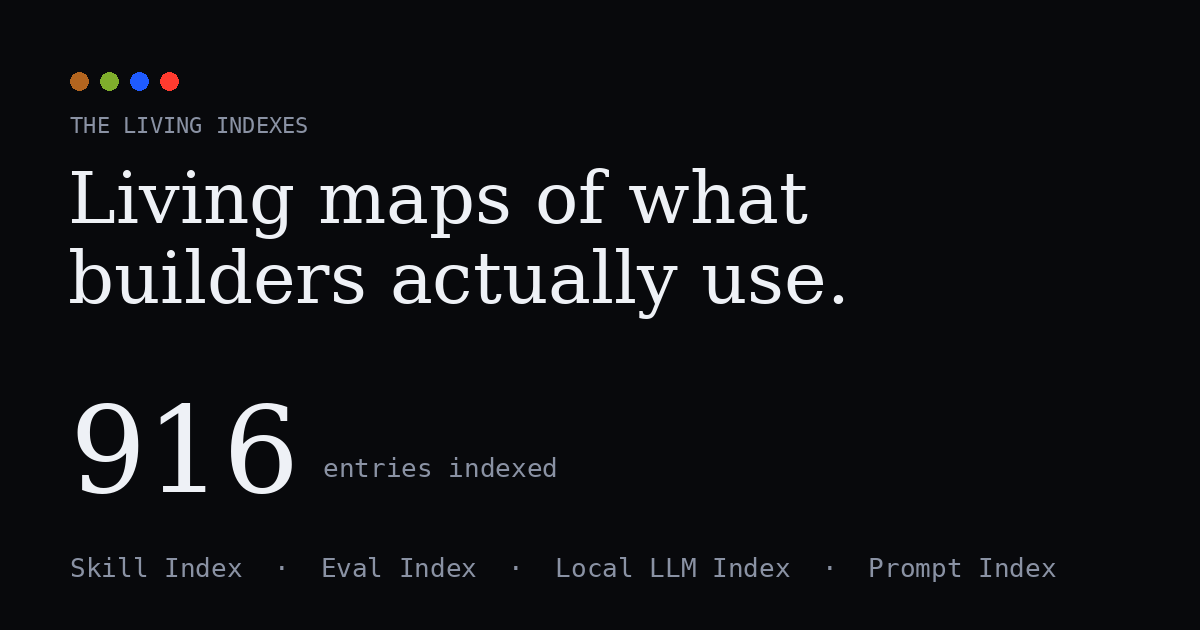
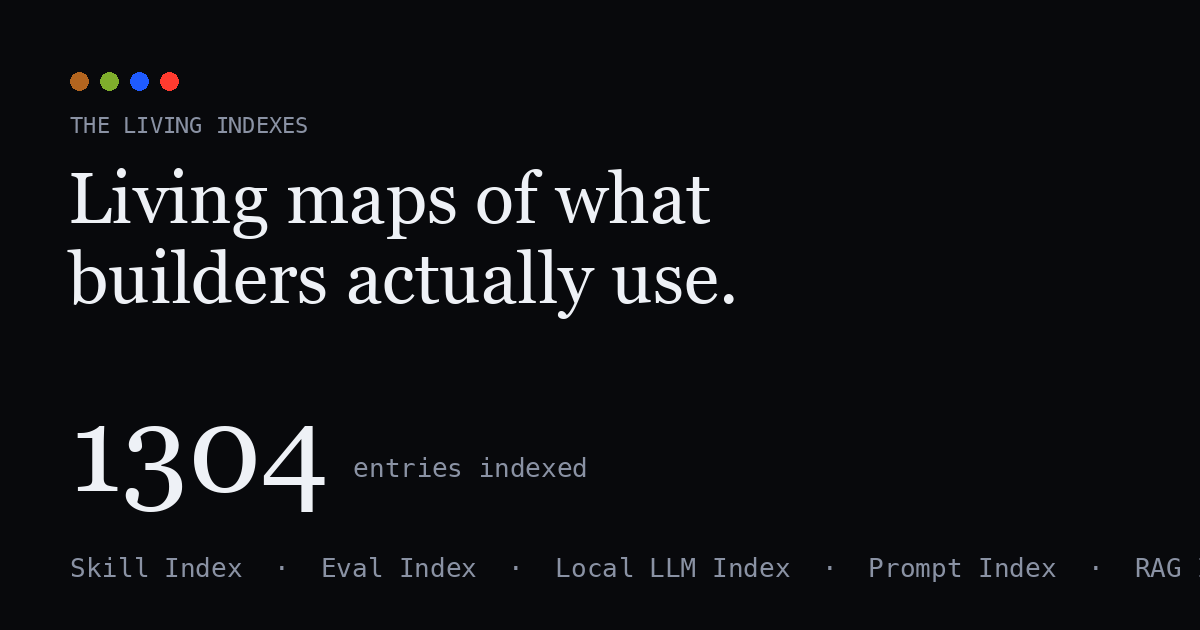
feat: add The Fine-Tuning Index to the fleet (6 indexes)

diff --git a/index.html b/index.html
@@ -58,6 +58,7 @@
     <a href="https://local-llm-index.vercel.app" target="_blank" rel="noopener">Local LLM Index</a>
     <a href="https://prompt-index-gamma.vercel.app" target="_blank" rel="noopener">Prompt Index</a>
     <a href="https://rag-index.vercel.app" target="_blank" rel="noopener">RAG Index</a>
+    <a href="https://finetune-index.vercel.app" target="_blank" rel="noopener">Fine-Tuning Index</a>
   </div>
   <div class="updated" id="updated"></div>
 </div></footer>

diff --git a/build_data.py b/build_data.py
@@ -34,6 +34,9 @@ INDEXES = [
     {"key": "rag", "name": "The RAG Index", "tag": "RAG",
      "blurb": "Retrieval-augmented-generation — RAG frameworks, vector DBs, embeddings, reranking.",
      "url": "https://rag-index.vercel.app", "accent": "#5b4bff"},
+    {"key": "finetune", "name": "The Fine-Tuning Index", "tag": "Fine-Tuning",
+     "blurb": "Make your own model — fine-tuning frameworks, PEFT/LoRA, RLHF/DPO, training data.",
+     "url": "https://finetune-index.vercel.app", "accent": "#ff6a00"},
 ]
 
 